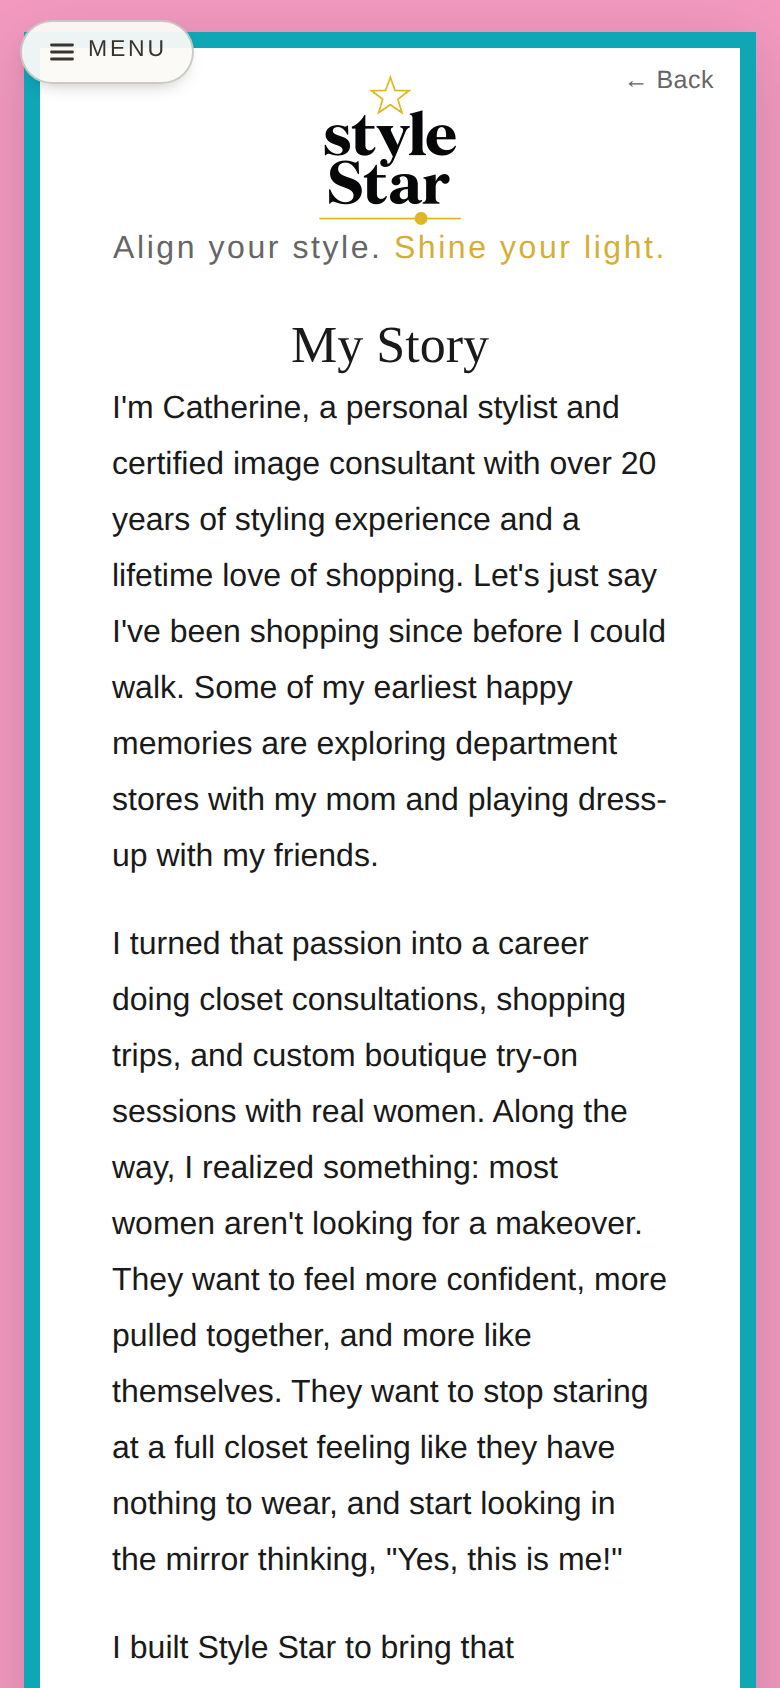
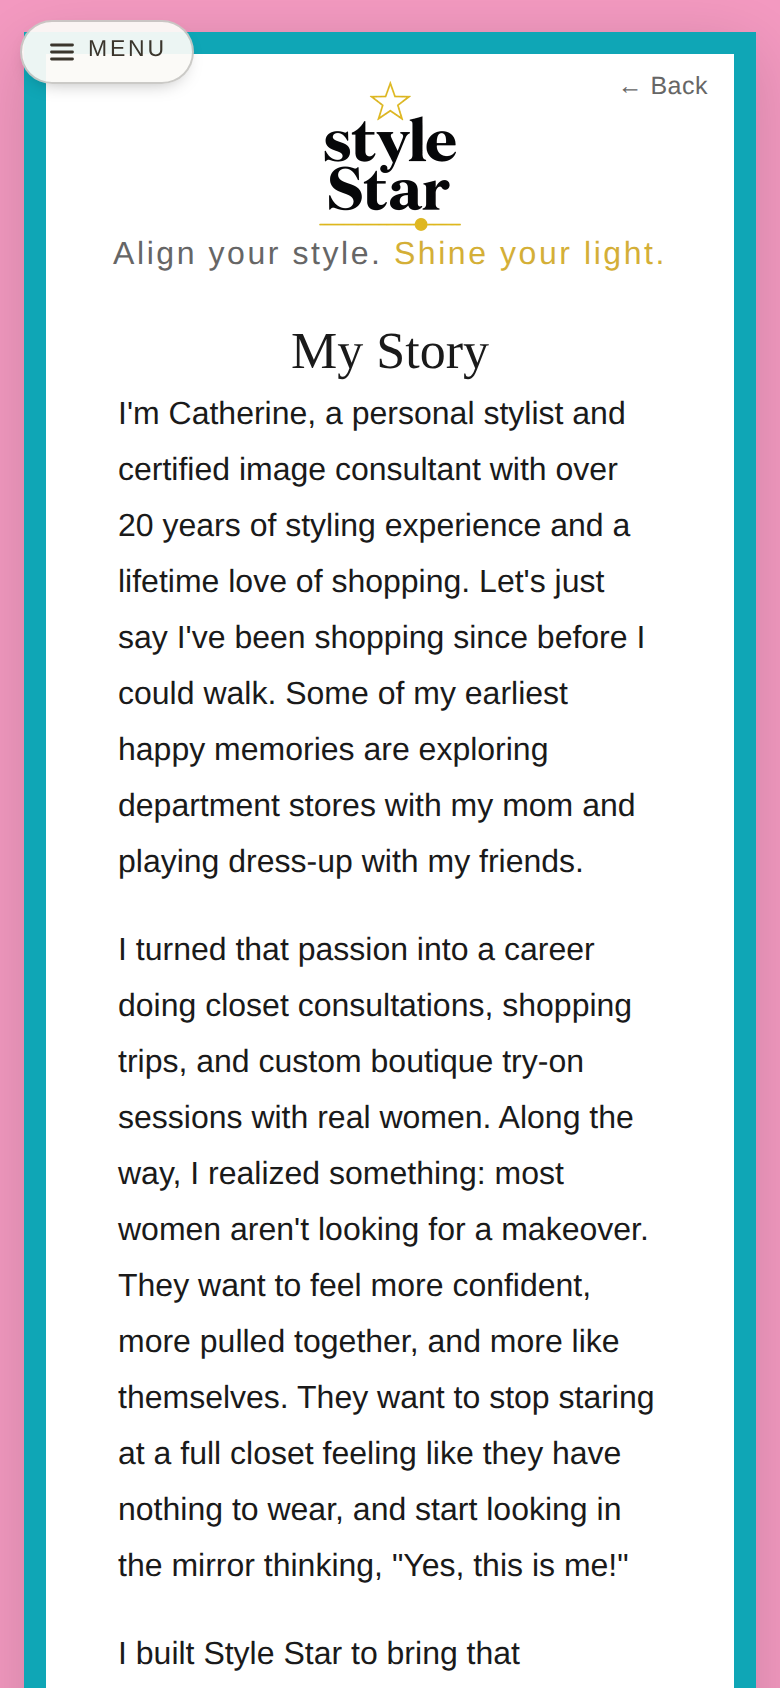
My Story turquoise frame to 11px (#797)
Claude-Session: https://claude.ai/code/session_016L23CfkCzWBThRfBBj9SQc

diff --git a/index.html b/index.html
@@ -106,7 +106,7 @@ input[type=range]::-moz-range-thumb{width:30px;height:30px;border-radius:50%;bac
    card — the white and pink inset rings are gone ("no white line") — and the
    page behind it bleeds her signature pink (html.story-velvet). The card
    scrolls with the words, so the frame can never sit on top of them. */
-.ss.story-mirror{position:relative;border-radius:0;border:8px solid #0FA6B6;background:#fff;
+.ss.story-mirror{position:relative;border-radius:0;border:11px solid #0FA6B6;background:#fff;
   box-shadow:0 8px 34px rgba(0,0,0,.16)}
 /* Shop your style: her personal boutique storefront — black store window with a
    slight beveled inner edge, on the Mall's brick wall (body.shop-brick) */

diff --git a/CLAUDE.md b/CLAUDE.md
@@ -74,9 +74,9 @@ the meter ran out today of all days.
    wl-velvet is removed; wladd's overflow census still exempts `.wl-rod`. Proofs:
    `scratchpad/storyfix-{top,mid}.png` (frame scrolls with words, no white line), `rodfix-top.png`
    (insets 0/0). Verified: wladd 102 · nav 80 · menu 87 · e2e 29 green.
-   - **My Story border thickened 4px → 6px → 8px** (her ask, twice: "slightly thicker", then "a little
-     thicker" again — 8px is her current pick; if she asks once more, render 10 and 12 side by side
-     rather than inching).
+   - **My Story border thickened 4px → 6px → 8px → 11px** (her asks, three rounds; 11px was her own
+     number and matches the Shop mirror's 11px black window frame — the two boutique frames now share
+     one weight).
 3. Same evening micro-rounds, all hers: lead box restored to the full warm sentence with "item"
    wording, centered, tucked -10px under the heart; Back top:6px; **the wishing button is SQUARED and
    says "+ Add anything you're wishing for"** (both surfaces; tracking .04em/padding 8 hold one line at
